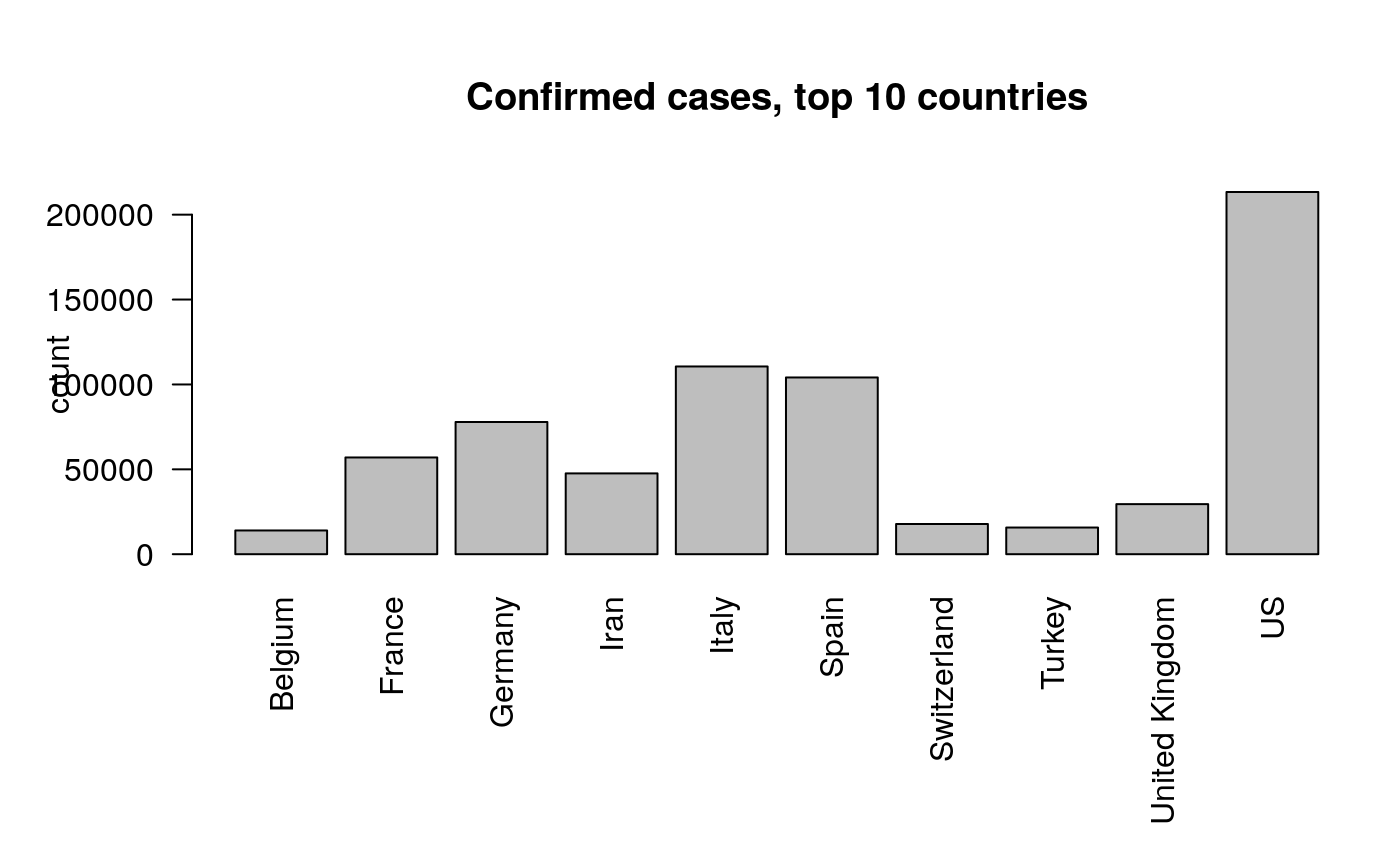
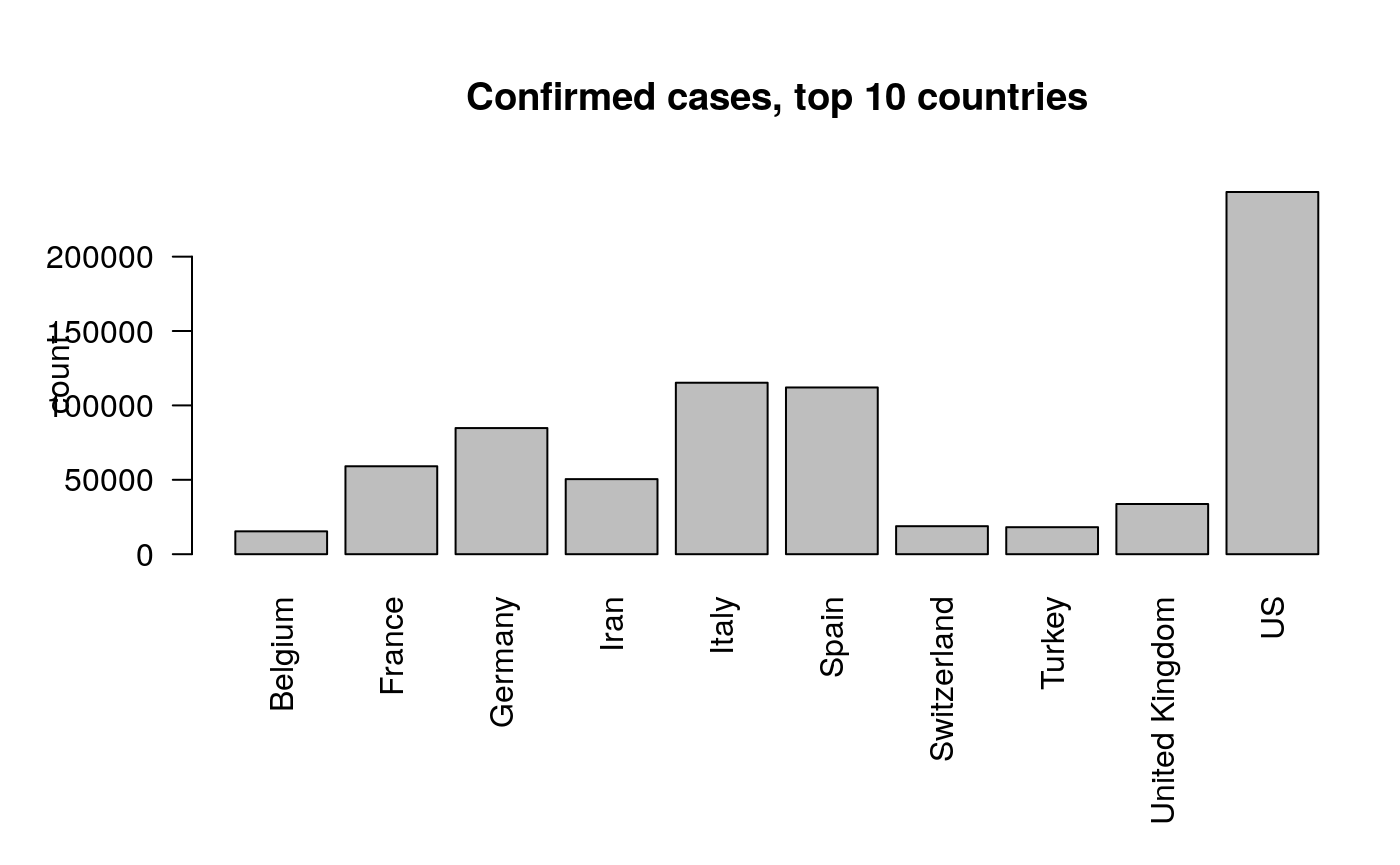
Deploying to gh-pages from  @ cfe13bc9c10dc7191dd0b20e5406ae23d9d6f9b6 🚀

diff --git a/articles/sars2pack.html b/articles/sars2pack.html
@@ -86,7 +86,7 @@
       <h1 data-toc-skip>Exploring the COVID-19 pandemic using sars2pack</h1>
                         <h4 class="author">Sean Davis <a href="mailto:seandavi@gmail.com" class="email">seandavi@gmail.com</a> and Vincent J. Carey, stvjc at channing.harvard.edu</h4>
             
-            <h4 class="date">April 02, 2020</h4>
+            <h4 class="date">April 03, 2020</h4>
       
       <small class="dont-index">Source: <a href="https://github.com/seandavi/sars2pack/blob/master/vignettes/sars2pack.Rmd"><code>vignettes/sars2pack.Rmd</code></a></small>
       <div class="hidden name"><code>sars2pack.Rmd</code></div>
@@ -163,7 +163,7 @@
 <span class="fu"><a href="https://rdrr.io/r/base/class.html">class</a></span>(<span class="no">jhu</span>)</pre></body></html></div>
 <pre><code>## [1] "tbl_df"     "tbl"        "data.frame"</code></pre>
 <div class="sourceCode" id="cb4"><html><body><pre class="r"><span class="fu"><a href="https://rdrr.io/r/base/dim.html">dim</a></span>(<span class="no">jhu</span>)</pre></body></html></div>
-<pre><code>## [1] 36352     7</code></pre>
+<pre><code>## [1] 37152     7</code></pre>
 <p>Column names include:</p>
 <div class="sourceCode" id="cb6"><html><body><pre class="r"><span class="fu"><a href="https://rdrr.io/r/base/colnames.html">colnames</a></span>(<span class="no">jhu</span>)</pre></body></html></div>
 <pre><code>## [1] "ProvinceState" "CountryRegion" "Lat"           "Long"         
@@ -181,7 +181,7 @@
 <h3 class="hasAnchor">
 <a href="#usafacts-dataset" class="anchor"></a>USAFacts Dataset</h3>
 <div class="sourceCode" id="cb10"><html><body><pre class="r"><span class="no">usa_facts</span> <span class="kw">=</span> <span class="fu"><a href="../reference/usa_facts_data.html">usa_facts_data</a></span>()</pre></body></html></div>
-<pre><code>## using temporary cache /tmp/RtmpGZu5yi/BiocFileCache</code></pre>
+<pre><code>## using temporary cache /tmp/RtmpsAM9k9/BiocFileCache</code></pre>
 <div class="sourceCode" id="cb12"><html><body><pre class="r"><span class="fu"><a href="https://rdrr.io/r/base/class.html">class</a></span>(<span class="no">usa_facts</span>)</pre></body></html></div>
 <pre><code>## [1] "tbl_df"     "tbl"        "data.frame"</code></pre>
 <div class="sourceCode" id="cb14"><html><body><pre class="r"><span class="fu"><a href="https://rdrr.io/r/base/dim.html">dim</a></span>(<span class="no">usa_facts</span>)</pre></body></html></div>
@@ -206,7 +206,7 @@
 <span class="fu"><a href="https://rdrr.io/r/base/class.html">class</a></span>(<span class="no">nytimes_state</span>)</pre></body></html></div>
 <pre><code>## [1] "tbl_df"     "tbl"        "data.frame"</code></pre>
 <div class="sourceCode" id="cb22"><html><body><pre class="r"><span class="fu"><a href="https://rdrr.io/r/base/dim.html">dim</a></span>(<span class="no">nytimes_state</span>)</pre></body></html></div>
-<pre><code>## [1] 3218    5</code></pre>
+<pre><code>## [1] 3328    5</code></pre>
 <p>Column names include:</p>
 <div class="sourceCode" id="cb24"><html><body><pre class="r"><span class="fu"><a href="https://rdrr.io/r/base/colnames.html">colnames</a></span>(<span class="no">nytimes_state</span>)</pre></body></html></div>
 <pre><code>## [1] "date"   "state"  "fips"   "count"  "subset"</code></pre>
@@ -222,7 +222,7 @@
 <span class="fu"><a href="https://rdrr.io/r/base/class.html">class</a></span>(<span class="no">nytimes_county</span>)</pre></body></html></div>
 <pre><code>## [1] "tbl_df"     "tbl"        "data.frame"</code></pre>
 <div class="sourceCode" id="cb30"><html><body><pre class="r"><span class="fu"><a href="https://rdrr.io/r/base/dim.html">dim</a></span>(<span class="no">nytimes_county</span>)</pre></body></html></div>
-<pre><code>## [1] 47934     6</code></pre>
+<pre><code>## [1] 52398     6</code></pre>
 <div class="sourceCode" id="cb32"><html><body><pre class="r"><span class="fu"><a href="https://rdrr.io/r/base/colnames.html">colnames</a></span>(<span class="no">nytimes_county</span>)</pre></body></html></div>
 <pre><code>## [1] "date"   "county" "state"  "fips"   "count"  "subset"</code></pre>
 </div>
@@ -249,12 +249,12 @@
 <li><strong>How many records are in the dataset?</strong></li>
 </ul>
 <div class="sourceCode" id="cb36"><html><body><pre class="r"><span class="fu"><a href="https://rdrr.io/r/base/nrow.html">nrow</a></span>(<span class="no">jhu</span>)</pre></body></html></div>
-<pre><code>## [1] 36352</code></pre>
+<pre><code>## [1] 37152</code></pre>
 <ul>
 <li><strong>How many different countries are represented?</strong></li>
 </ul>
 <div class="sourceCode" id="cb38"><html><body><pre class="r"><span class="fu"><a href="https://rdrr.io/r/base/length.html">length</a></span>(<span class="fu"><a href="https://rdrr.io/r/base/unique.html">unique</a></span>(<span class="no">jhu</span>$<span class="no">CountryRegion</span>))</pre></body></html></div>
-<pre><code>## [1] 180</code></pre>
+<pre><code>## [1] 181</code></pre>
 <p>Most records have no listing for <code>ProvinceState</code> column. Let’s look at a few of those to get an idea of what is there when not empty:</p>
 <ul>
 <li><strong>What is in the <code>ProvinceState</code> column?</strong></li>
@@ -290,8 +290,8 @@
     <span class="kw pkg">dplyr</span><span class="kw ns">::</span><span class="fu"><a href="https://dplyr.tidyverse.org/reference/slice.html">slice</a></span>(<span class="fu"><a href="https://rdrr.io/r/base/which.min.html">which.max</a></span>(<span class="no">date</span>)) <span class="kw">%&gt;%</span>
     <span class="kw pkg">dplyr</span><span class="kw ns">::</span><span class="fu"><a href="https://dplyr.tidyverse.org/reference/arrange.html">arrange</a></span>(<span class="fu">desc</span>(<span class="no">count</span>))
 <span class="kw pkg">DT</span><span class="kw ns">::</span><span class="fu"><a href="https://rdrr.io/pkg/DT/man/datatable.html">datatable</a></span>(<span class="no">latest_jhu_data</span>, <span class="kw">rownames</span><span class="kw">=</span><span class="fl">FALSE</span>)</pre></body></html></div>
-<div id="htmlwidget-04031ef0ad5b7144a840" style="width:100%;height:auto;" class="datatables html-widget"></div>
-<script type="application/json" data-for="htmlwidget-04031ef0ad5b7144a840">{"x":{"filter":"none","data":[[null,null,null,null,null,null,null,null,null,null,null,null,null,null,null,null,null,null,null,null,null,null,null,null,null,null,null,null,null,null,null,null,null,null,null,null,null,null,null,null,null,null,null,null,null,null,null,null,null,null,null,null,null,null,null,null,null,null,null,null,null,null,null,null,null,null,null,null,null,null,null,null,null,null,null,null,null,null,null,null,null,null,null,null,null,null,null,null,null,null,null,null,null,null,null,null,null,null,null,null,null,null,null,null,null,null,null,null,null,null,null,null,null,null,null,null,null,null,null,null,null,null,null,null,null,null,null,null,null,null,null,null,null,null,null,null,null,null,null,null,null,null,null,null,null,null,null,null,null,null,null,null,null,null,null,null,null,null,null,null,null,null,null,null,null,null,null,null,null,null,null,null,null,null,null,null,null],["US","Italy","Spain","Germany","France","Iran","United Kingdom","Switzerland","Turkey","Belgium","Netherlands","Austria","Korea, South","Portugal","Brazil","Israel","Sweden","Norway","Czechia","Ireland","Denmark","Chile","Malaysia","Russia","Ecuador","Poland","Romania","Luxembourg","Philippines","Japan","Pakistan","India","Thailand","Saudi Arabia","Indonesia","Finland","Greece","South Africa","Peru","Dominican Republic","Iceland","Mexico","Panama","Colombia","Serbia","Argentina","Singapore","Croatia","Algeria","Slovenia","Qatar","United Arab Emirates","Ukraine","Egypt","Estonia","Iraq","Diamond Princess","New Zealand","Morocco","Lithuania","Armenia","Bahrain","Hungary","Lebanon","Bosnia and Herzegovina","Latvia","Moldova","Tunisia","Bulgaria","Slovakia","Andorra","Kazakhstan","Costa Rica","Azerbaijan","North Macedonia","Uruguay","Taiwan*","Cyprus","Kuwait","Burkina Faso","Jordan","Albania","Afghanistan","San Marino","Cameroon","Vietnam","Cuba","Oman","Ghana","Cote d'Ivoire","Senegal","Malta","Uzbekistan","Nigeria","Honduras","Belarus","Mauritius","Sri Lanka","Venezuela","West Bank and Gaza","Brunei","Kosovo","Montenegro","Georgia","Bolivia","Kyrgyzstan","Cambodia","Congo (Kinshasa)","Trinidad and Tobago","Rwanda","Kenya","Niger","Paraguay","Liechtenstein","Madagascar","Monaco","Bangladesh","Jamaica","Uganda","Guatemala","Togo","Zambia","Barbados","Djibouti","El Salvador","Mali","Guinea","Ethiopia","Bahamas","Tanzania","Congo (Brazzaville)","Guyana","Maldives","Gabon","Haiti","Burma","Equatorial Guinea","Eritrea","Mongolia","Namibia","Benin","Saint Lucia","Dominica","Laos","Libya","Mozambique","Seychelles","Suriname","Syria","Eswatini","Grenada","Guinea-Bissau","MS Zaandam","Angola","Saint Kitts and Nevis","Zimbabwe","Antigua and Barbuda","Chad","Sudan","Cabo Verde","Holy See","Liberia","Mauritania","Fiji","Nepal","Nicaragua","Somalia","Bhutan","Botswana","Gambia","Belize","Central African Republic","Burundi","Sierra Leone","Papua New Guinea","Saint Vincent and the Grenadines","Timor-Leste"],[37.0902,43,40,51,46.2276,32,55.3781,46.8182,38.9637,50.8333,52.1326,47.5162,36,39.3999,-14.235,31,63,60.472,49.8175,53.1424,56.2639,-35.6751,2.5,60,-1.8312,51.9194,45.9432,49.8153,13,36,30.3753,21,15,24,-0.7893,64,39.0742,-30.5595,-9.19,18.7357,64.9631,23.6345,8.538,4.5709,44.0165,-38.4161,1.2833,45.1,28.0339,46.1512,25.3548,24,48.3794,26,58.5953,33,0,-40.9006,31.7917,55.1694,40.0691,26.0275,47.1625,33.8547,43.9159,56.8796,47.4116,34,42.7339,48.669,42.5063,48.0196,9.7489,40.1431,41.6086,-32.5228,23.7,35.1264,29.5,12.2383,31.24,41.1533,33,43.9424,3.848,16,22,21,7.9465,7.54,14.4974,35.9375,41.3775,9.082,15.2,53.7098,-20.2,7,6.4238,31.9522,4.5353,42.602636,42.5,42.3154,-16.2902,41.2044,11.55,-4.0383,10.6918,-1.9403,-0.0236,17.6078,-23.4425,47.14,-18.7669,43.7333,23.685,18.1096,1,15.7835,8.6195,-15.4167,13.1939,11.8251,13.7942,17.570692,9.9456,9.145,25.0343,-6.369,-4.0383,5,3.2028,-0.8037,18.9712,21.9162,1.5,15.1794,46.8625,-22.9576,9.3077,13.9094,15.415,19.85627,26.3351,-18.665695,-4.6796,3.9193,34.802075,-26.5225,12.1165,11.8037,0,-11.2027,17.357822,-20,17.0608,15.4542,12.8628,16.5388,41.9029,6.4281,21.0079,-17.7134,28.1667,12.8654,5.1521,27.5142,-22.3285,13.4432,13.1939,6.6111,-3.3731,8.460555,-6.315,12.9843,-8.874217],[-95.7129,12,-4,9,2.2137,53,-3.436,8.2275,35.2433,4,5.2913,14.5501,128,-8.2245,-51.9253,35,16,8.4689,15.473,-7.6921,9.5018,-71.543,112.5,90,-78.1834,19.1451,24.9668,6.1296,122,138,69.3451,78,101,45,113.9213,26,21.8243,22.9375,-75.0152,-70.1627,-19.0208,-102.5528,-80.7821,-74.2973,21.0059,-63.6167,103.8333,15.2,1.6596,14.9955,51.1839,54,31.1656,30,25.0136,44,0,174.886,-7.0926,23.8813,45.0382,50.55,19.5033,35.8623,17.6791,24.6032,28.3699,9,25.4858,19.699,1.5218,66.9237,-83.7534,47.5769,21.7453,-55.7658,121,33.4299,47.75,-1.5616,36.51,20.1683,65,12.4578,11.5021,108,-80,57,-1.0232,-5.5471,-14.4524,14.3754,64.5853,8.6753,-86.2419,27.9534,57.5,81,-66.5897,35.2332,114.7277,20.902977,19.3,43.3569,-63.5887,74.7661,104.9167,21.7587,-61.2225,29.8739,37.9062,8.0817,-58.4438,9.55,46.8691,7.4167,90.3563,-77.2975,32,-90.2308,0.8248,28.2833,-59.5432,42.5903,-88.8965,-3.996166,-9.6966,40.4897,-77.3963,34.8888,21.7587,-58.75,73.2207,11.6094,-72.2852,95.956,10,39.7823,103.8467,18.4904,2.3158,-60.9789,-61.371,102.495496,17.228331,35.529562,55.492,-56.0278,38.996815,31.4659,-61.679,-15.1804,0,17.8739,-62.782998,30,-61.7964,18.7322,30.2176,-23.0418,12.4534,-9.4295,10.9408,178.065,84.25,-85.2072,46.1996,90.4336,24.6849,-15.3101,-59.5432,20.9394,29.9189,-11.779889,143.9555,-61.2872,125.727539],["2020-04-01","2020-04-01","2020-04-01","2020-04-01","2020-04-01","2020-04-01","2020-04-01","2020-04-01","2020-04-01","2020-04-01","2020-04-01","2020-04-01","2020-04-01","2020-04-01","2020-04-01","2020-04-01","2020-04-01","2020-04-01","2020-04-01","2020-04-01","2020-04-01","2020-04-01","2020-04-01","2020-04-01","2020-04-01","2020-04-01","2020-04-01","2020-04-01","2020-04-01","2020-04-01","2020-04-01","2020-04-01","2020-04-01","2020-04-01","2020-04-01","2020-04-01","2020-04-01","2020-04-01","2020-04-01","2020-04-01","2020-04-01","2020-04-01","2020-04-01","2020-04-01","2020-04-01","2020-04-01","2020-04-01","2020-04-01","2020-04-01","2020-04-01","2020-04-01","2020-04-01","2020-04-01","2020-04-01","2020-04-01","2020-04-01","2020-04-01","2020-04-01","2020-04-01","2020-04-01","2020-04-01","2020-04-01","2020-04-01","2020-04-01","2020-04-01","2020-04-01","2020-04-01","2020-04-01","2020-04-01","2020-04-01","2020-04-01","2020-04-01","2020-04-01","2020-04-01","2020-04-01","2020-04-01","2020-04-01","2020-04-01","2020-04-01","2020-04-01","2020-04-01","2020-04-01","2020-04-01","2020-04-01","2020-04-01","2020-04-01","2020-04-01","2020-04-01","2020-04-01","2020-04-01","2020-04-01","2020-04-01","2020-04-01","2020-04-01","2020-04-01","2020-04-01","2020-04-01","2020-04-01","2020-04-01","2020-04-01","2020-04-01","2020-04-01","2020-04-01","2020-04-01","2020-04-01","2020-04-01","2020-04-01","2020-04-01","2020-04-01","2020-04-01","2020-04-01","2020-04-01","2020-04-01","2020-04-01","2020-04-01","2020-04-01","2020-04-01","2020-04-01","2020-04-01","2020-04-01","2020-04-01","2020-04-01","2020-04-01","2020-04-01","2020-04-01","2020-04-01","2020-04-01","2020-04-01","2020-04-01","2020-04-01","2020-04-01","2020-04-01","2020-04-01","2020-04-01","2020-04-01","2020-04-01","2020-04-01","2020-04-01","2020-04-01","2020-04-01","2020-04-01","2020-04-01","2020-04-01","2020-04-01","2020-04-01","2020-04-01","2020-04-01","2020-04-01","2020-04-01","2020-04-01","2020-04-01","2020-04-01","2020-04-01","2020-04-01","2020-04-01","2020-04-01","2020-04-01","2020-04-01","2020-04-01","2020-04-01","2020-04-01","2020-04-01","2020-04-01","2020-04-01","2020-04-01","2020-04-01","2020-04-01","2020-04-01","2020-04-01","2020-04-01","2020-04-01","2020-04-01","2020-04-01","2020-04-01","2020-04-01","2020-04-01","2020-04-01"],[213372,110574,104118,77872,56989,47593,29474,17768,15679,13964,13614,10711,9887,8251,6836,6092,4947,4863,3508,3447,3107,3031,2908,2777,2748,2554,2460,2319,2311,2178,2118,1998,1771,1720,1677,1446,1415,1380,1323,1284,1220,1215,1181,1065,1060,1054,1000,963,847,841,835,814,794,779,779,728,712,708,654,581,571,569,525,479,459,446,423,423,422,400,390,380,375,359,354,338,329,320,317,282,278,259,237,236,233,218,212,210,195,190,190,188,181,174,172,163,161,146,143,134,131,125,123,117,115,111,109,109,90,82,81,74,69,68,57,55,54,44,44,39,36,36,34,33,32,31,30,29,21,20,19,19,19,18,16,15,15,15,14,14,13,13,12,10,10,10,10,10,10,9,9,9,9,8,8,8,7,7,7,6,6,6,6,5,5,5,5,4,4,4,3,3,2,2,1,1,1],["confirmed","confirmed","confirmed","confirmed","confirmed","confirmed","confirmed","confirmed","confirmed","confirmed","confirmed","confirmed","confirmed","confirmed","confirmed","confirmed","confirmed","confirmed","confirmed","confirmed","confirmed","confirmed","confirmed","confirmed","confirmed","confirmed","confirmed","confirmed","confirmed","confirmed","confirmed","confirmed","confirmed","confirmed","confirmed","confirmed","confirmed","confirmed","confirmed","confirmed","confirmed","confirmed","confirmed","confirmed","confirmed","confirmed","confirmed","confirmed","confirmed","confirmed","confirmed","confirmed","confirmed","confirmed","confirmed","confirmed","confirmed","confirmed","confirmed","confirmed","confirmed","confirmed","confirmed","confirmed","confirmed","confirmed","confirmed","confirmed","confirmed","confirmed","confirmed","confirmed","confirmed","confirmed","confirmed","confirmed","confirmed","confirmed","confirmed","confirmed","confirmed","confirmed","confirmed","confirmed","confirmed","confirmed","confirmed","confirmed","confirmed","confirmed","confirmed","confirmed","confirmed","confirmed","confirmed","confirmed","confirmed","confirmed","confirmed","confirmed","confirmed","confirmed","confirmed","confirmed","confirmed","confirmed","confirmed","confirmed","confirmed","confirmed","confirmed","confirmed","confirmed","confirmed","confirmed","confirmed","confirmed","confirmed","confirmed","confirmed","confirmed","confirmed","confirmed","confirmed","confirmed","confirmed","confirmed","confirmed","confirmed","confirmed","confirmed","confirmed","confirmed","confirmed","confirmed","confirmed","confirmed","confirmed","confirmed","confirmed","confirmed","confirmed","confirmed","confirmed","confirmed","confirmed","confirmed","confirmed","confirmed","confirmed","confirmed","confirmed","confirmed","confirmed","confirmed","confirmed","confirmed","confirmed","confirmed","confirmed","confirmed","confirmed","confirmed","confirmed","confirmed","confirmed","confirmed","confirmed","confirmed","confirmed","confirmed","confirmed","confirmed","confirmed","confirmed","confirmed","confirmed"]],"container":"<table class=\"display\">\n  <thead>\n    <tr>\n      <th>ProvinceState<\/th>\n      <th>CountryRegion<\/th>\n      <th>Lat<\/th>\n      <th>Long<\/th>\n      <th>date<\/th>\n      <th>count<\/th>\n      <th>subset<\/th>\n    <\/tr>\n  <\/thead>\n<\/table>","options":{"columnDefs":[{"className":"dt-right","targets":[2,3,5]}],"order":[],"autoWidth":false,"orderClasses":false}},"evals":[],"jsHooks":[]}</script><p><strong>Note</strong>: I included a little <code>is.na</code> in the filtering above to remove records where country data are split out over subparts. We revisit this below.</p>
+<div id="htmlwidget-266a43c2458a07c02670" style="width:100%;height:auto;" class="datatables html-widget"></div>
+<script type="application/json" data-for="htmlwidget-266a43c2458a07c02670">{"x":{"filter":"none","data":[[null,null,null,null,null,null,null,null,null,null,null,null,null,null,null,null,null,null,null,null,null,null,null,null,null,null,null,null,null,null,null,null,null,null,null,null,null,null,null,null,null,null,null,null,null,null,null,null,null,null,null,null,null,null,null,null,null,null,null,null,null,null,null,null,null,null,null,null,null,null,null,null,null,null,null,null,null,null,null,null,null,null,null,null,null,null,null,null,null,null,null,null,null,null,null,null,null,null,null,null,null,null,null,null,null,null,null,null,null,null,null,null,null,null,null,null,null,null,null,null,null,null,null,null,null,null,null,null,null,null,null,null,null,null,null,null,null,null,null,null,null,null,null,null,null,null,null,null,null,null,null,null,null,null,null,null,null,null,null,null,null,null,null,null,null,null,null,null,null,null,null,null,null,null,null,null,null,null],["US","Italy","Spain","Germany","France","Iran","United Kingdom","Switzerland","Turkey","Belgium","Netherlands","Austria","Korea, South","Portugal","Brazil","Israel","Sweden","Norway","Czechia","Ireland","Russia","Chile","Denmark","Ecuador","Malaysia","Poland","Romania","Philippines","India","Japan","Luxembourg","Pakistan","Saudi Arabia","Thailand","Indonesia","Greece","Finland","South Africa","Peru","Dominican Republic","Mexico","Iceland","Panama","Serbia","Colombia","Argentina","Singapore","United Arab Emirates","Croatia","Algeria","Qatar","Slovenia","Ukraine","Egypt","Estonia","New Zealand","Iraq","Diamond Princess","Morocco","Armenia","Lithuania","Bahrain","Hungary","Bosnia and Herzegovina","Moldova","Lebanon","Latvia","Bulgaria","Tunisia","Kazakhstan","Andorra","Slovakia","Azerbaijan","Costa Rica","North Macedonia","Cyprus","Uruguay","Kuwait","Taiwan*","Cameroon","Belarus","Jordan","Burkina Faso","Albania","Afghanistan","San Marino","Cuba","Vietnam","Oman","Honduras","Uzbekistan","Ghana","Malta","Senegal","Cote d'Ivoire","Nigeria","Mauritius","West Bank and Gaza","Sri Lanka","Venezuela","Montenegro","Congo (Kinshasa)","Georgia","Brunei","Kosovo","Bolivia","Kyrgyzstan","Cambodia","Kenya","Niger","Trinidad and Tobago","Rwanda","Paraguay","Liechtenstein","Monaco","Madagascar","Bangladesh","Guinea","Guatemala","Jamaica","Barbados","Uganda","El Salvador","Djibouti","Togo","Zambia","Mali","Ethiopia","Bahamas","Congo (Brazzaville)","Eritrea","Gabon","Burma","Tanzania","Guyana","Maldives","Haiti","Syria","Equatorial Guinea","Mongolia","Namibia","Benin","Saint Lucia","Dominica","Libya","Grenada","Laos","Mozambique","Seychelles","Suriname","Antigua and Barbuda","Eswatini","Guinea-Bissau","MS Zaandam","Saint Kitts and Nevis","Zimbabwe","Angola","Chad","Sudan","Fiji","Holy See","Cabo Verde","Liberia","Mauritania","Nepal","Bhutan","Nicaragua","Somalia","Botswana","Gambia","Belize","Burundi","Central African Republic","Malawi","Saint Vincent and the Grenadines","Sierra Leone","Papua New Guinea","Timor-Leste"],[37.0902,43,40,51,46.2276,32,55.3781,46.8182,38.9637,50.8333,52.1326,47.5162,36,39.3999,-14.235,31,63,60.472,49.8175,53.1424,60,-35.6751,56.2639,-1.8312,2.5,51.9194,45.9432,13,21,36,49.8153,30.3753,24,15,-0.7893,39.0742,64,-30.5595,-9.19,18.7357,23.6345,64.9631,8.538,44.0165,4.5709,-38.4161,1.2833,24,45.1,28.0339,25.3548,46.1512,48.3794,26,58.5953,-40.9006,33,0,31.7917,40.0691,55.1694,26.0275,47.1625,43.9159,47.4116,33.8547,56.8796,42.7339,34,48.0196,42.5063,48.669,40.1431,9.7489,41.6086,35.1264,-32.5228,29.5,23.7,3.848,53.7098,31.24,12.2383,41.1533,33,43.9424,22,16,21,15.2,41.3775,7.9465,35.9375,14.4974,7.54,9.082,-20.2,31.9522,7,6.4238,42.5,-4.0383,42.3154,4.5353,42.602636,-16.2902,41.2044,11.55,-0.0236,17.6078,10.6918,-1.9403,-23.4425,47.14,43.7333,-18.7669,23.685,9.9456,15.7835,18.1096,13.1939,1,13.7942,11.8251,8.6195,-15.4167,17.570692,9.145,25.0343,-4.0383,15.1794,-0.8037,21.9162,-6.369,5,3.2028,18.9712,34.802075,1.5,46.8625,-22.9576,9.3077,13.9094,15.415,26.3351,12.1165,19.85627,-18.665695,-4.6796,3.9193,17.0608,-26.5225,11.8037,0,17.357822,-20,-11.2027,15.4542,12.8628,-17.7134,41.9029,16.5388,6.4281,21.0079,28.1667,27.5142,12.8654,5.1521,-22.3285,13.4432,13.1939,-3.3731,6.6111,-13.254308,12.9843,8.460555,-6.315,-8.874217],[-95.7129,12,-4,9,2.2137,53,-3.436,8.2275,35.2433,4,5.2913,14.5501,128,-8.2245,-51.9253,35,16,8.4689,15.473,-7.6921,90,-71.543,9.5018,-78.1834,112.5,19.1451,24.9668,122,78,138,6.1296,69.3451,45,101,113.9213,21.8243,26,22.9375,-75.0152,-70.1627,-102.5528,-19.0208,-80.7821,21.0059,-74.2973,-63.6167,103.8333,54,15.2,1.6596,51.1839,14.9955,31.1656,30,25.0136,174.886,44,0,-7.0926,45.0382,23.8813,50.55,19.5033,17.6791,28.3699,35.8623,24.6032,25.4858,9,66.9237,1.5218,19.699,47.5769,-83.7534,21.7453,33.4299,-55.7658,47.75,121,11.5021,27.9534,36.51,-1.5616,20.1683,65,12.4578,-80,108,57,-86.2419,64.5853,-1.0232,14.3754,-14.4524,-5.5471,8.6753,57.5,35.2332,81,-66.5897,19.3,21.7587,43.3569,114.7277,20.902977,-63.5887,74.7661,104.9167,37.9062,8.0817,-61.2225,29.8739,-58.4438,9.55,7.4167,46.8691,90.3563,-9.6966,-90.2308,-77.2975,-59.5432,32,-88.8965,42.5903,0.8248,28.2833,-3.996166,40.4897,-77.3963,21.7587,39.7823,11.6094,95.956,34.8888,-58.75,73.2207,-72.2852,38.996815,10,103.8467,18.4904,2.3158,-60.9789,-61.371,17.228331,-61.679,102.495496,35.529562,55.492,-56.0278,-61.7964,31.4659,-15.1804,0,-62.782998,30,17.8739,18.7322,30.2176,178.065,12.4534,-23.0418,-9.4295,10.9408,84.25,90.4336,-85.2072,46.1996,24.6849,-15.3101,-59.5432,29.9189,20.9394,34.301525,-61.2872,-11.779889,143.9555,125.727539],["2020-04-02","2020-04-02","2020-04-02","2020-04-02","2020-04-02","2020-04-02","2020-04-02","2020-04-02","2020-04-02","2020-04-02","2020-04-02","2020-04-02","2020-04-02","2020-04-02","2020-04-02","2020-04-02","2020-04-02","2020-04-02","2020-04-02","2020-04-02","2020-04-02","2020-04-02","2020-04-02","2020-04-02","2020-04-02","2020-04-02","2020-04-02","2020-04-02","2020-04-02","2020-04-02","2020-04-02","2020-04-02","2020-04-02","2020-04-02","2020-04-02","2020-04-02","2020-04-02","2020-04-02","2020-04-02","2020-04-02","2020-04-02","2020-04-02","2020-04-02","2020-04-02","2020-04-02","2020-04-02","2020-04-02","2020-04-02","2020-04-02","2020-04-02","2020-04-02","2020-04-02","2020-04-02","2020-04-02","2020-04-02","2020-04-02","2020-04-02","2020-04-02","2020-04-02","2020-04-02","2020-04-02","2020-04-02","2020-04-02","2020-04-02","2020-04-02","2020-04-02","2020-04-02","2020-04-02","2020-04-02","2020-04-02","2020-04-02","2020-04-02","2020-04-02","2020-04-02","2020-04-02","2020-04-02","2020-04-02","2020-04-02","2020-04-02","2020-04-02","2020-04-02","2020-04-02","2020-04-02","2020-04-02","2020-04-02","2020-04-02","2020-04-02","2020-04-02","2020-04-02","2020-04-02","2020-04-02","2020-04-02","2020-04-02","2020-04-02","2020-04-02","2020-04-02","2020-04-02","2020-04-02","2020-04-02","2020-04-02","2020-04-02","2020-04-02","2020-04-02","2020-04-02","2020-04-02","2020-04-02","2020-04-02","2020-04-02","2020-04-02","2020-04-02","2020-04-02","2020-04-02","2020-04-02","2020-04-02","2020-04-02","2020-04-02","2020-04-02","2020-04-02","2020-04-02","2020-04-02","2020-04-02","2020-04-02","2020-04-02","2020-04-02","2020-04-02","2020-04-02","2020-04-02","2020-04-02","2020-04-02","2020-04-02","2020-04-02","2020-04-02","2020-04-02","2020-04-02","2020-04-02","2020-04-02","2020-04-02","2020-04-02","2020-04-02","2020-04-02","2020-04-02","2020-04-02","2020-04-02","2020-04-02","2020-04-02","2020-04-02","2020-04-02","2020-04-02","2020-04-02","2020-04-02","2020-04-02","2020-04-02","2020-04-02","2020-04-02","2020-04-02","2020-04-02","2020-04-02","2020-04-02","2020-04-02","2020-04-02","2020-04-02","2020-04-02","2020-04-02","2020-04-02","2020-04-02","2020-04-02","2020-04-02","2020-04-02","2020-04-02","2020-04-02","2020-04-02","2020-04-02","2020-04-02","2020-04-02","2020-04-02","2020-04-02","2020-04-02","2020-04-02"],[243453,115242,112065,84794,59105,50468,33718,18827,18135,15348,14697,11129,9976,9034,8044,6857,5568,5147,3858,3849,3548,3404,3386,3163,3116,2946,2738,2633,2543,2495,2487,2421,1885,1875,1790,1544,1518,1462,1414,1380,1378,1319,1317,1171,1161,1133,1049,1024,1011,986,949,897,897,865,858,797,772,712,708,663,649,643,585,533,505,494,458,457,455,435,428,426,400,396,384,356,350,342,339,306,304,299,288,277,273,245,233,233,231,219,205,204,196,195,194,184,169,161,151,146,144,134,134,133,125,123,116,110,110,98,94,84,77,75,60,59,56,52,47,47,46,45,41,40,39,39,36,29,24,22,22,21,20,20,19,19,16,16,15,14,14,13,13,12,11,10,10,10,10,10,9,9,9,9,9,9,8,8,8,7,7,6,6,6,6,5,5,5,4,4,3,3,3,3,2,2,1,1],["confirmed","confirmed","confirmed","confirmed","confirmed","confirmed","confirmed","confirmed","confirmed","confirmed","confirmed","confirmed","confirmed","confirmed","confirmed","confirmed","confirmed","confirmed","confirmed","confirmed","confirmed","confirmed","confirmed","confirmed","confirmed","confirmed","confirmed","confirmed","confirmed","confirmed","confirmed","confirmed","confirmed","confirmed","confirmed","confirmed","confirmed","confirmed","confirmed","confirmed","confirmed","confirmed","confirmed","confirmed","confirmed","confirmed","confirmed","confirmed","confirmed","confirmed","confirmed","confirmed","confirmed","confirmed","confirmed","confirmed","confirmed","confirmed","confirmed","confirmed","confirmed","confirmed","confirmed","confirmed","confirmed","confirmed","confirmed","confirmed","confirmed","confirmed","confirmed","confirmed","confirmed","confirmed","confirmed","confirmed","confirmed","confirmed","confirmed","confirmed","confirmed","confirmed","confirmed","confirmed","confirmed","confirmed","confirmed","confirmed","confirmed","confirmed","confirmed","confirmed","confirmed","confirmed","confirmed","confirmed","confirmed","confirmed","confirmed","confirmed","confirmed","confirmed","confirmed","confirmed","confirmed","confirmed","confirmed","confirmed","confirmed","confirmed","confirmed","confirmed","confirmed","confirmed","confirmed","confirmed","confirmed","confirmed","confirmed","confirmed","confirmed","confirmed","confirmed","confirmed","confirmed","confirmed","confirmed","confirmed","confirmed","confirmed","confirmed","confirmed","confirmed","confirmed","confirmed","confirmed","confirmed","confirmed","confirmed","confirmed","confirmed","confirmed","confirmed","confirmed","confirmed","confirmed","confirmed","confirmed","confirmed","confirmed","confirmed","confirmed","confirmed","confirmed","confirmed","confirmed","confirmed","confirmed","confirmed","confirmed","confirmed","confirmed","confirmed","confirmed","confirmed","confirmed","confirmed","confirmed","confirmed","confirmed","confirmed","confirmed","confirmed","confirmed","confirmed","confirmed","confirmed","confirmed"]],"container":"<table class=\"display\">\n  <thead>\n    <tr>\n      <th>ProvinceState<\/th>\n      <th>CountryRegion<\/th>\n      <th>Lat<\/th>\n      <th>Long<\/th>\n      <th>date<\/th>\n      <th>count<\/th>\n      <th>subset<\/th>\n    <\/tr>\n  <\/thead>\n<\/table>","options":{"columnDefs":[{"className":"dt-right","targets":[2,3,5]}],"order":[],"autoWidth":false,"orderClasses":false}},"evals":[],"jsHooks":[]}</script><p><strong>Note</strong>: I included a little <code>is.na</code> in the filtering above to remove records where country data are split out over subparts. We revisit this below.</p>
 <p>The data here could be usefully displayed as a graph as well.</p>
 <div class="sourceCode" id="cb43"><html><body><pre class="r"><span class="fu"><a href="https://rdrr.io/r/graphics/par.html">par</a></span>(<span class="kw">las</span><span class="kw">=</span><span class="fl">2</span>, <span class="kw">mar</span><span class="kw">=</span><span class="fu"><a href="https://rdrr.io/r/base/c.html">c</a></span>(<span class="fl">8</span>,<span class="fl">5</span>,<span class="fl">5</span>,<span class="fl">1</span>))
 <span class="fu"><a href="https://rdrr.io/r/graphics/barplot.html">barplot</a></span>(<span class="no">count</span> ~ <span class="no">CountryRegion</span>, <span class="kw">xlab</span> <span class="kw">=</span> <span class="st">''</span>,

diff --git a/reference/covidtracker_data.html b/reference/covidtracker_data.html
@@ -170,37 +170,25 @@ district currently reporting that data.</p>
     <h2 class="hasAnchor" id="examples"><a class="anchor" href="#examples"></a>Examples</h2>
     <pre class="examples"><div class='input'><span class='fu'>covidtracker_data</span>()</div><div class='output co'>#&gt; <span class='message'>Parsed with column specification:</span>
 #&gt; <span class='message'>cols(</span>
-#&gt; <span class='message'>  date = col_double(),</span>
+#&gt; <span class='message'>  .default = col_double(),</span>
 #&gt; <span class='message'>  state = col_character(),</span>
-#&gt; <span class='message'>  positive = col_double(),</span>
-#&gt; <span class='message'>  negative = col_double(),</span>
-#&gt; <span class='message'>  pending = col_double(),</span>
-#&gt; <span class='message'>  hospitalized = col_double(),</span>
-#&gt; <span class='message'>  death = col_double(),</span>
-#&gt; <span class='message'>  total = col_double(),</span>
 #&gt; <span class='message'>  hash = col_character(),</span>
 #&gt; <span class='message'>  dateChecked = col_datetime(format = ""),</span>
-#&gt; <span class='message'>  totalTestResults = col_double(),</span>
-#&gt; <span class='message'>  fips = col_character(),</span>
-#&gt; <span class='message'>  deathIncrease = col_double(),</span>
-#&gt; <span class='message'>  hospitalizedIncrease = col_double(),</span>
-#&gt; <span class='message'>  negativeIncrease = col_double(),</span>
-#&gt; <span class='message'>  positiveIncrease = col_double(),</span>
-#&gt; <span class='message'>  totalTestResultsIncrease = col_double()</span>
-#&gt; <span class='message'>)</span></div><div class='output co'>#&gt; # A tibble: 1,485 x 9
+#&gt; <span class='message'>  fips = col_character()</span>
+#&gt; <span class='message'>)</span></div><div class='output co'>#&gt; <span class='message'>See spec(...) for full column specifications.</span></div><div class='output co'>#&gt; # A tibble: 1,541 x 9
 #&gt;    date       state positive negative pending hospitalized death
 #&gt;    &lt;date&gt;     &lt;chr&gt;    &lt;dbl&gt;    &lt;dbl&gt;   &lt;dbl&gt;        &lt;dbl&gt; &lt;dbl&gt;
-#&gt;  1 2020-04-01 AK         133     4470      NA            9     3
-#&gt;  2 2020-04-01 AL        1077     6697      NA           NA    26
-#&gt;  3 2020-04-01 AR         584     7354      NA           90    10
-#&gt;  4 2020-04-01 AS           0       20       6           NA     0
-#&gt;  5 2020-04-01 AZ        1413    19645      NA          149    29
-#&gt;  6 2020-04-01 CA        8155    21772   57400         1855   171
-#&gt;  7 2020-04-01 CO        2966    13883      NA          509    69
-#&gt;  8 2020-04-01 CT        3557    13043      NA          766    85
-#&gt;  9 2020-04-01 DC         586     3262       2           NA    11
-#&gt; 10 2020-04-01 DE         368     4015      NA           57    11
-#&gt; # … with 1,475 more rows, and 2 more variables: dateChecked &lt;dttm&gt;, fips &lt;chr&gt;</div><div class='input'>
+#&gt;  1 2020-04-02 AK         143     4879      NA            9     3
+#&gt;  2 2020-04-02 AL        1233     7503      NA           NA    32
+#&gt;  3 2020-04-02 AR         643     7880      NA           NA    12
+#&gt;  4 2020-04-02 AS           0       20       6           NA     0
+#&gt;  5 2020-04-02 AZ        1598    21111      NA          228    32
+#&gt;  6 2020-04-02 CA        9191    23809   59500           NA   203
+#&gt;  7 2020-04-02 CO        3342    15303      NA          620    80
+#&gt;  8 2020-04-02 CT        3824    14476      NA           NA   112
+#&gt;  9 2020-04-02 DC         653     4417      NA           NA    12
+#&gt; 10 2020-04-02 DE         393     4566      NA           NA    12
+#&gt; # … with 1,531 more rows, and 2 more variables: dateChecked &lt;dttm&gt;, fips &lt;chr&gt;</div><div class='input'>
 </div></pre>
   </div>
   <div class="col-md-3 hidden-xs hidden-sm" id="pkgdown-sidebar">

diff --git a/reference/form_incident_events.html b/reference/form_incident_events.html
@@ -149,14 +149,14 @@
     <pre class="examples"><div class='input'><span class='fu'><a href='https://rdrr.io/r/base/warning.html'>suppressWarnings</a></span>({<span class='no'>dat</span> <span class='kw'>=</span> <span class='fu'><a href='enriched_jhu_data.html'>enriched_jhu_data</a></span>()})
 <span class='no'>cusa</span> <span class='kw'>=</span> <span class='fu'><a href='cumulative_events_ejhu.html'>cumulative_events_ejhu</a></span>(<span class='no'>dat</span>, <span class='kw'>eventtype</span><span class='kw'>=</span><span class='st'>"confirmed"</span>,
  <span class='kw'>alpha3</span><span class='kw'>=</span><span class='st'>"USA"</span>)
-<span class='no'>cusa</span></div><div class='output co'>#&gt; cumulative event data for USA, 2020-01-22 to 2020-04-01 
+<span class='no'>cusa</span></div><div class='output co'>#&gt; cumulative event data for USA, 2020-01-22 to 2020-04-02 
 #&gt; use plot() to visualize.</div><div class='input'><span class='no'>cusa</span> <span class='kw'>=</span> <span class='fu'><a href='trim_from.html'>trim_from</a></span>(<span class='no'>cusa</span>, <span class='st'>"2020-03-01"</span>)
 <span class='no'>iusa</span> <span class='kw'>=</span> <span class='fu'>form_incident_events</span>(<span class='no'>cusa</span>)
 <span class='fu'><a href='https://rdrr.io/r/graphics/plot.html'>plot</a></span>(<span class='no'>iusa</span>)</div><div class='img'><img src='form_incident_events-1.png' alt='' width='700' height='433' /></div><div class='input'><span class='no'>gt</span> <span class='kw'>=</span> <span class='kw pkg'>R0</span><span class='kw ns'>::</span><span class='fu'><a href='https://rdrr.io/pkg/R0/man/generation.time.html'>generation.time</a></span>(<span class='st'>"gamma"</span>, <span class='fu'><a href='https://rdrr.io/r/base/c.html'>c</a></span>(<span class='fl'>3.5</span>, <span class='fl'>4.8</span>))
 <span class='no'>est1</span> <span class='kw'>=</span> <span class='kw pkg'>R0</span><span class='kw ns'>::</span><span class='fu'><a href='https://rdrr.io/pkg/R0/man/estimate.R.html'>estimate.R</a></span>( <span class='no'>iusa</span>$<span class='no'>count</span>, <span class='kw'>GT</span><span class='kw'>=</span><span class='no'>gt</span>,
    <span class='kw'>t</span><span class='kw'>=</span><span class='no'>iusa</span>$<span class='no'>dates</span>, <span class='kw'>begin</span><span class='kw'>=</span><span class='no'>iusa</span>$<span class='no'>dates</span>[<span class='fl'>1</span>], <span class='kw'>end</span><span class='kw'>=</span><span class='no'>iusa</span>$<span class='no'>dates</span>[<span class='fu'><a href='https://rdrr.io/r/base/length.html'>length</a></span>(<span class='no'>iusa</span>$<span class='no'>dates</span>)],
    <span class='kw'>methods</span><span class='kw'>=</span><span class='st'>"EG"</span>)</div><div class='output co'>#&gt; <span class='message'>Waiting for profiling to be done...</span></div><div class='input'><span class='no'>est1</span></div><div class='output co'>#&gt; Reproduction number estimate using  Exponential Growth  method.
-#&gt; R :  2.009804[ 2.004726 , 2.0149 ]
+#&gt; R :  1.960674[ 1.95616 , 1.965203 ]
 #&gt; </div><div class='input'><span class='fu'><a href='plot2.html'>plot2</a></span>(<span class='no'>est1</span>)</div><div class='img'><img src='form_incident_events-2.png' alt='' width='700' height='433' /></div><div class='input'><span class='fu'><a href='plotfit2.html'>plotfit2</a></span>(<span class='no'>est1</span>)</div><div class='img'><img src='form_incident_events-3.png' alt='' width='700' height='433' /></div></pre>
   </div>
   <div class="col-md-3 hidden-xs hidden-sm" id="pkgdown-sidebar">

diff --git a/reference/jhu_data_to_excel.html b/reference/jhu_data_to_excel.html
@@ -181,7 +181,7 @@ an excel format of data to folks more familiar with excel than
 with R.</p>
 
     <h2 class="hasAnchor" id="examples"><a class="anchor" href="#examples"></a>Examples</h2>
-    <pre class="examples"><div class='input'><span class='no'>xls_form</span> <span class='kw'>=</span> <span class='fu'>jhu_data_to_excel</span>()</div><div class='output co'>#&gt; <span class='warning'>Warning: Some values were not matched unambiguously: MS Zaandam</span></div><div class='output co'>#&gt; <span class='warning'>Warning: Some values were not matched unambiguously: MS Zaandam</span></div><div class='input'><span class='fu'><a href='https://rdrr.io/r/base/names.html'>names</a></span>(<span class='no'>xls_form</span>)</div><div class='output co'>#&gt; [1] "confirmed" "deaths"   </div><div class='input'><span class='fu'><a href='https://rdrr.io/r/utils/head.html'>head</a></span>(<span class='no'>xls_form</span><span class='kw'>[[</span><span class='fl'>1</span>]])</div><div class='output co'>#&gt; # A tibble: 6 x 88
+    <pre class="examples"><div class='input'><span class='no'>xls_form</span> <span class='kw'>=</span> <span class='fu'>jhu_data_to_excel</span>()</div><div class='output co'>#&gt; <span class='warning'>Warning: Some values were not matched unambiguously: MS Zaandam</span></div><div class='output co'>#&gt; <span class='warning'>Warning: Some values were not matched unambiguously: MS Zaandam</span></div><div class='input'><span class='fu'><a href='https://rdrr.io/r/base/names.html'>names</a></span>(<span class='no'>xls_form</span>)</div><div class='output co'>#&gt; [1] "confirmed" "deaths"   </div><div class='input'><span class='fu'><a href='https://rdrr.io/r/utils/head.html'>head</a></span>(<span class='no'>xls_form</span><span class='kw'>[[</span><span class='fl'>1</span>]])</div><div class='output co'>#&gt; # A tibble: 6 x 89
 #&gt;   name  topLevelDomain alpha2Code alpha3Code capital region subregion population
 #&gt;   &lt;chr&gt; &lt;list&gt;         &lt;chr&gt;      &lt;chr&gt;      &lt;chr&gt;   &lt;chr&gt;  &lt;chr&gt;          &lt;int&gt;
 #&gt; 1 Afgh… &lt;chr [1]&gt;      AF         AFG        Kabul   Asia   Southern…   27657145
@@ -190,7 +190,7 @@ with R.</p>
 #&gt; 4 Ando… &lt;chr [1]&gt;      AD         AND        Andorr… Europe Southern…      78014
 #&gt; 5 Ango… &lt;chr [1]&gt;      AO         AGO        Luanda  Africa Middle A…   25868000
 #&gt; 6 Anti… &lt;chr [1]&gt;      AG         ATG        Saint … Ameri… Caribbean      86295
-#&gt; # … with 80 more variables: area &lt;dbl&gt;, gini &lt;dbl&gt;, borders &lt;list&gt;,
+#&gt; # … with 81 more variables: area &lt;dbl&gt;, gini &lt;dbl&gt;, borders &lt;list&gt;,
 #&gt; #   numericCode &lt;chr&gt;, cioc &lt;chr&gt;, ProvinceState &lt;chr&gt;, CountryRegion &lt;chr&gt;,
 #&gt; #   Lat &lt;dbl&gt;, Long &lt;dbl&gt;, `2020-01-22` &lt;dbl&gt;, `2020-01-23` &lt;dbl&gt;,
 #&gt; #   `2020-01-24` &lt;dbl&gt;, `2020-01-25` &lt;dbl&gt;, `2020-01-26` &lt;dbl&gt;,
@@ -215,7 +215,8 @@ with R.</p>
 #&gt; #   `2020-03-21` &lt;dbl&gt;, `2020-03-22` &lt;dbl&gt;, `2020-03-23` &lt;dbl&gt;,
 #&gt; #   `2020-03-24` &lt;dbl&gt;, `2020-03-25` &lt;dbl&gt;, `2020-03-26` &lt;dbl&gt;,
 #&gt; #   `2020-03-27` &lt;dbl&gt;, `2020-03-28` &lt;dbl&gt;, `2020-03-29` &lt;dbl&gt;,
-#&gt; #   `2020-03-30` &lt;dbl&gt;, `2020-03-31` &lt;dbl&gt;, `2020-04-01` &lt;dbl&gt;</div><div class='input'>
+#&gt; #   `2020-03-30` &lt;dbl&gt;, `2020-03-31` &lt;dbl&gt;, `2020-04-01` &lt;dbl&gt;,
+#&gt; #   `2020-04-02` &lt;dbl&gt;</div><div class='input'>
 </div></pre>
   </div>
   <div class="col-md-3 hidden-xs hidden-sm" id="pkgdown-sidebar">

diff --git a/reference/cumulative_events_ejhu.html b/reference/cumulative_events_ejhu.html
@@ -166,7 +166,7 @@
     <pre class="examples"><div class='input'><span class='no'>dat</span> <span class='kw'>=</span> <span class='fu'><a href='enriched_jhu_data.html'>enriched_jhu_data</a></span>()</div><div class='output co'>#&gt; <span class='warning'>Warning: Some values were not matched unambiguously: MS Zaandam</span></div><div class='input'><span class='no'>cchn</span> <span class='kw'>=</span> <span class='fu'>cumulative_events_ejhu</span>(<span class='no'>dat</span>, <span class='kw'>alpha3</span><span class='kw'>=</span><span class='st'>"CHN"</span>, <span class='kw'>ProvinceStateName</span><span class='kw'>=</span><span class='st'>"Hubei"</span>)
 <span class='no'>ichn</span> <span class='kw'>=</span> <span class='fu'><a href='form_incident_events.html'>form_incident_events</a></span>(<span class='no'>cchn</span>)
 <span class='fu'><a href='https://rdrr.io/r/graphics/plot.html'>plot</a></span>(<span class='no'>cchn</span>$<span class='no'>count</span>[-<span class='fl'>1</span>], <span class='no'>ichn</span>$<span class='no'>count</span>, <span class='kw'>log</span><span class='kw'>=</span><span class='st'>"xy"</span>, <span class='kw'>xlab</span><span class='kw'>=</span><span class='st'>"cumulative"</span>, <span class='kw'>ylab</span><span class='kw'>=</span><span class='st'>"new"</span>,
- <span class='kw'>main</span><span class='kw'>=</span><span class='st'>"Hubei province"</span>) <span class='co'># like https://youtu.be/54XLXg4fYsc</span></div><div class='output co'>#&gt; <span class='warning'>Warning: 16 y values &lt;= 0 omitted from logarithmic plot</span></div><div class='img'><img src='cumulative_events_ejhu-1.png' alt='' width='700' height='433' /></div></pre>
+ <span class='kw'>main</span><span class='kw'>=</span><span class='st'>"Hubei province"</span>) <span class='co'># like https://youtu.be/54XLXg4fYsc</span></div><div class='output co'>#&gt; <span class='warning'>Warning: 17 y values &lt;= 0 omitted from logarithmic plot</span></div><div class='img'><img src='cumulative_events_ejhu-1.png' alt='' width='700' height='433' /></div></pre>
   </div>
   <div class="col-md-3 hidden-xs hidden-sm" id="pkgdown-sidebar">
     <nav id="toc" data-toggle="toc" class="sticky-top">

diff --git a/reference/us_county_geo_details.html b/reference/us_county_geo_details.html
@@ -153,7 +153,7 @@
 <code><a href='usa_facts_data.html'>usa_facts_data</a>()</code></p></div>
 
     <h2 class="hasAnchor" id="examples"><a class="anchor" href="#examples"></a>Examples</h2>
-    <pre class="examples"><div class='input'><span class='no'>usc</span> <span class='kw'>=</span> <span class='fu'>us_county_geo_details</span>()</div><div class='output co'>#&gt; <span class='message'>using temporary cache /tmp/Rtmpkv0KIS/BiocFileCache</span></div><div class='input'><span class='kw pkg'>dplyr</span><span class='kw ns'>::</span><span class='fu'><a href='https://dplyr.tidyverse.org/reference/reexports.html'>glimpse</a></span>(<span class='no'>usc</span>)</div><div class='output co'>#&gt; Rows: 3,220
+    <pre class="examples"><div class='input'><span class='no'>usc</span> <span class='kw'>=</span> <span class='fu'>us_county_geo_details</span>()</div><div class='output co'>#&gt; <span class='message'>using temporary cache /tmp/RtmpjYfB2r/BiocFileCache</span></div><div class='input'><span class='kw pkg'>dplyr</span><span class='kw ns'>::</span><span class='fu'><a href='https://dplyr.tidyverse.org/reference/reexports.html'>glimpse</a></span>(<span class='no'>usc</span>)</div><div class='output co'>#&gt; Rows: 3,220
 #&gt; Columns: 9
 #&gt; $ state           &lt;chr&gt; "AL", "AL", "AL", "AL", "AL", "AL", "AL", "AL", "AL",…
 #&gt; $ fips            &lt;chr&gt; "01001", "01003", "01005", "01007", "01009", "01011",…

diff --git a/reference/enriched_jhu_data.html b/reference/enriched_jhu_data.html
@@ -179,7 +179,7 @@ and <code>recovered</code>.</p>
 #&gt; 6 Afgh… &lt;chr [1]&gt;      AF         AFG        Kabul   Asia   Southern…   27657145
 #&gt; # … with 12 more variables: area &lt;dbl&gt;, gini &lt;dbl&gt;, borders &lt;list&gt;,
 #&gt; #   numericCode &lt;chr&gt;, cioc &lt;chr&gt;, ProvinceState &lt;chr&gt;, CountryRegion &lt;chr&gt;,
-#&gt; #   Lat &lt;dbl&gt;, Long &lt;dbl&gt;, date &lt;date&gt;, count &lt;dbl&gt;, subset &lt;chr&gt;</div><div class='input'><span class='fu'><a href='https://dplyr.tidyverse.org/reference/reexports.html'>glimpse</a></span>(<span class='no'>res</span>)</div><div class='output co'>#&gt; Rows: 36,352
+#&gt; #   Lat &lt;dbl&gt;, Long &lt;dbl&gt;, date &lt;date&gt;, count &lt;dbl&gt;, subset &lt;chr&gt;</div><div class='input'><span class='fu'><a href='https://dplyr.tidyverse.org/reference/reexports.html'>glimpse</a></span>(<span class='no'>res</span>)</div><div class='output co'>#&gt; Rows: 37,152
 #&gt; Columns: 20
 #&gt; $ name           &lt;chr&gt; "Afghanistan", "Afghanistan", "Afghanistan", "Afghanis…
 #&gt; $ topLevelDomain &lt;list&gt; [".af", ".af", ".af", ".af", ".af", ".af", ".af", ".a…
